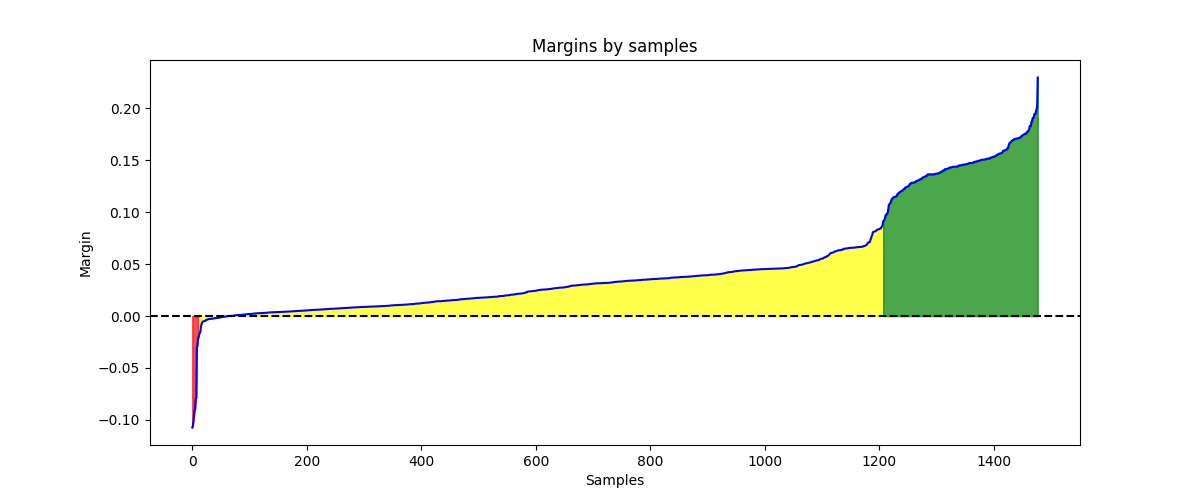
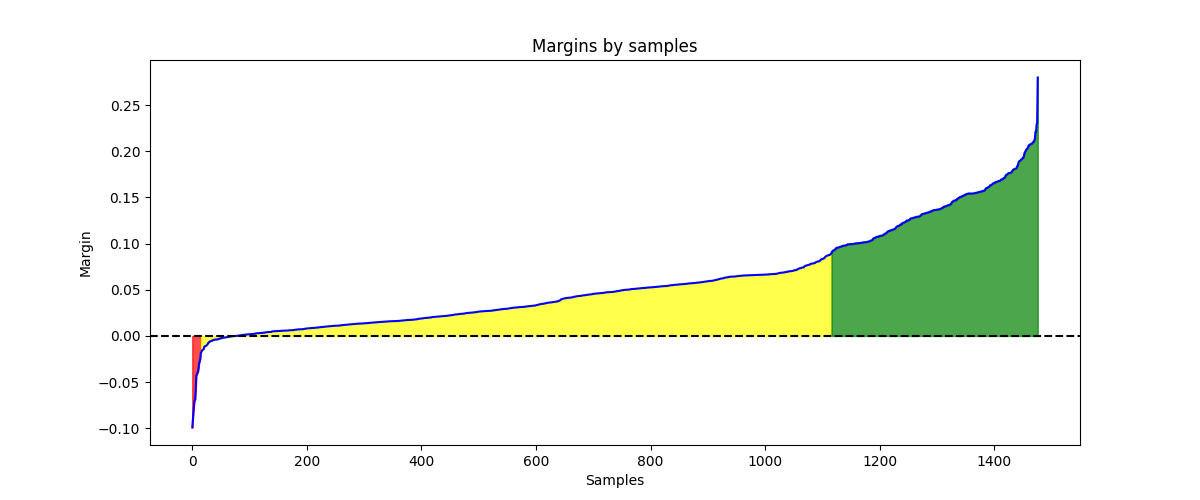
Add new losses, add Q to README.md, train sklearn models with SGD

diff --git a/students/ivanov-ms/lab1/source/train/train.py b/students/ivanov-ms/lab1/source/train/train.py
@@ -2,8 +2,7 @@ import time
 import warnings
 import numpy as np
 
-from sklearn.linear_model import LogisticRegression
-from sklearn.svm import SVC
+from sklearn.linear_model import SGDClassifier
 
 from model import LinearClassifier
 from metrics import accuracy_score
@@ -24,7 +23,7 @@ def train_and_eval_model(
 
 
 def multi_start(
-    X_train: np.ndarray, y_train: np.ndarray, X_test: np.ndarray, y_test: np.ndarray,
+    X_train: np.ndarray, y_train: np.ndarray, X_test: np.ndarray, y_test: np.ndarray, loss: str = "log_loss",
     num_starts: int = 10, batch_method: str = "margin", epochs=100, batch_size=32, log_prefix: str = ""
 ):
     best_model = None
@@ -35,6 +34,7 @@ def multi_start(
         model = LinearClassifier(
             weights_init_method="random",
             batch_method=batch_method,
+            loss=loss,
             learning_rate=LEARNING_RATE,
             momentum_betta=MOMENTUM_BETTA,
             l2_coef=L2_COEF,
@@ -55,24 +55,29 @@ def multi_start(
 
 def train_pipeline(
     X_train: np.ndarray, y_train: np.ndarray, X_test: np.ndarray, y_test: np.ndarray,
-    num_starts: int = 10, epochs: int = 100, batch_size: int = 32
+    loss: str = "log_loss", num_starts: int = 10, epochs: int = 100, batch_size: int = 32
 ):
     # Multi-starts with random weights init
 
-    print("Start Train pipeline")
+    print("Start Train pipeline with params:")
+    print(f"-- Loss name: {loss}")
+    print(f"-- Multi-start number of starts: {num_starts}")
+    print(f"-- Train epochs: {epochs}")
+    print(f"-- Batch size: {batch_size}")
+
     start_time = time.time()
 
     print("-- Start multi-start with margin-based batch method")
     best_model, best_model_acc, best_hist = multi_start(
         X_train, y_train, X_test, y_test,
-        num_starts=num_starts, batch_method="margin",
+        loss=loss, num_starts=num_starts, batch_method="margin",
         epochs=epochs, batch_size=batch_size, log_prefix="---- "
     )
     print(f"-- Complete multi-start with margin-based batch method with best accuracy {best_model_acc:.4f}")
     print("-- Start multi-start with random batch method")
     model, accuracy, hist = multi_start(
         X_train, y_train, X_test, y_test,
-        num_starts=num_starts, batch_method="random",
+        loss=loss, num_starts=num_starts, batch_method="random",
         epochs=epochs, batch_size=batch_size, log_prefix="---- "
     )
     print(f"-- Complete multi-start with random batch method with best accuracy {accuracy:.4f}")
@@ -87,6 +92,7 @@ def train_pipeline(
     model = LinearClassifier(
         weights_init_method="correlation",
         batch_method="margin",
+        loss=loss,
         learning_rate=LEARNING_RATE,
         momentum_betta=MOMENTUM_BETTA,
         l2_coef=L2_COEF,
@@ -107,6 +113,7 @@ def train_pipeline(
     model = LinearClassifier(
         weights_init_method="correlation",
         batch_method="random",
+        loss=loss,
         learning_rate=LEARNING_RATE,
         momentum_betta=MOMENTUM_BETTA,
         l2_coef=L2_COEF,
@@ -127,7 +134,10 @@ def train_pipeline(
     return best_model, best_hist
 
 
-def train_sklearn_models(X_train: np.ndarray, y_train: np.ndarray, X_test: np.ndarray, y_test: np.ndarray):
+def train_sklearn_models(
+    X_train: np.ndarray, y_train: np.ndarray,
+    X_test: np.ndarray, y_test: np.ndarray, epochs: int = 100
+):
     print("Train SKLearn models")
     start_time = time.time()
 
@@ -135,14 +145,20 @@ def train_sklearn_models(X_train: np.ndarray, y_train: np.ndarray, X_test: np.nd
     with warnings.catch_warnings():
         warnings.simplefilter("ignore")
 
-        print("-- Train LogisticRegression")
-        logistic_clf = LogisticRegression()
+        print("-- Train LogisticRegression with SGD")
+        logistic_clf = SGDClassifier(
+            loss="log_loss", penalty="l2", max_iter=epochs,
+            learning_rate='constant', eta0=LEARNING_RATE
+        )
         logistic_clf.fit(X_train, y_train)
         logistic_score = logistic_clf.score(X_test, y_test)
         print(f"-- LogisticRegression accuracy: {logistic_score:.4f}")
 
-        print("-- Train SVC (Support Vector Machine Classifier)")
-        svc_clf = SVC()
+        print("-- Train SVC (Support Vector Machine Classifier) with SGD")
+        svc_clf = SGDClassifier(
+            loss="hinge", penalty="l2", max_iter=epochs,
+            learning_rate='constant', eta0=LEARNING_RATE
+        )
         svc_clf.fit(X_train, y_train)
         svc_score = svc_clf.score(X_test, y_test)
         print(f"-- SVC accuracy: {svc_score:.4f}")

diff --git a/students/ivanov-ms/lab1/source/model/loss.py b/students/ivanov-ms/lab1/source/model/loss.py
@@ -2,9 +2,12 @@ from typing import Optional
 import numpy as np
 
 from .regularization import Regularization
+from .activations import ReverseSigmoid, LogActivation
 
 
-class BinaryLoss:
+class BaseLoss:
+    NAME = None
+
     def __init__(self, loss_lambda: float = 1e-3, regularization: Optional[Regularization] = None):
         self.loss_lambda = loss_lambda
         self.reg = regularization
@@ -13,10 +16,10 @@ class BinaryLoss:
         self.val_history = []
 
     def calc(self, y_true: np.ndarray, y_pred: np.ndarray):
-        return (y_pred * y_true < 0).mean()
+        raise NotImplementedError("Loss calculation is not implemented")
 
     def derivative(self, y_true: np.ndarray, y_pred: np.ndarray):
-        return np.expand_dims(np.sign(y_pred) * (y_pred * y_true < 0), axis=-1) / y_true.shape[0]
+        raise NotImplementedError("Loss derivative is not implemented")
 
     def get_loss(self, y_true: np.ndarray, y_pred: np.ndarray, weights: Optional[np.ndarray] = None):
         if self.history:
@@ -40,3 +43,52 @@ class BinaryLoss:
 
     def __call__(self, y_true: np.ndarray, y_pred: np.ndarray):
         return self.calc(y_true, y_pred)
+
+
+class BinaryLoss(BaseLoss):
+    NAME = "binary"
+
+    def calc(self, y_true: np.ndarray, y_pred: np.ndarray):
+        return (y_pred * y_true < 0).mean()
+
+    def derivative(self, y_true: np.ndarray, y_pred: np.ndarray):
+        return np.expand_dims(np.sign(y_pred) * (y_pred * y_true < 0), axis=-1) / y_true.shape[0]
+
+
+class SigmoidLoss(BaseLoss):
+    NAME = "sigmoid"
+
+    def __init__(self, *args, **kwargs):
+        super(SigmoidLoss, self).__init__(*args, **kwargs)
+
+        self.sigmoid = ReverseSigmoid()
+
+    def calc(self, y_true: np.ndarray, y_pred: np.ndarray):
+        return self.sigmoid(y_pred * y_true).mean()
+
+    def derivative(self, y_true: np.ndarray, y_pred: np.ndarray):
+        out = self.sigmoid(y_pred * y_true)
+        return np.expand_dims(y_true * self.sigmoid.derivative(out), axis=-1) / y_true.shape[0]
+
+
+class LogLoss(BaseLoss):
+    NAME = "log_loss"
+
+    def __init__(self, *args, **kwargs):
+        super(LogLoss, self).__init__(*args, **kwargs)
+
+        self.log_act = LogActivation()
+
+    def calc(self, y_true: np.ndarray, y_pred: np.ndarray):
+        return self.log_act(y_pred * y_true).mean()
+
+    def derivative(self, y_true: np.ndarray, y_pred: np.ndarray):
+        return np.expand_dims(y_true * self.log_act.derivative(y_pred * y_true), axis=-1) / y_true.shape[0]
+
+
+# Find all classes based on BaseLoss class
+LOSSES = {
+    v.NAME: v
+    for v in globals().values()
+    if isinstance(v, type) and BaseLoss in v.__bases__
+}

diff --git a/students/ivanov-ms/lab1/source/main.py b/students/ivanov-ms/lab1/source/main.py
@@ -12,6 +12,10 @@ def main():
         help='Mode to run: "full" (data and train), "data" (only data pipeline), or "train" (only training pipeline)'
     )
     parser.add_argument('--with-plotting', action='store_true', help='Enable plotting')
+    parser.add_argument(
+        '--loss', type=str, default="log_loss", choices=['binary', 'log_loss', 'sigmoid'],
+        help='Loss function to use: "binary", "log_loss", or "sigmoid"'
+    )
     parser.add_argument('--num-starts', type=int, default=10, help='Number of starts for multi-start training')
     parser.add_argument('--epochs', type=int, default=100, help='Number of epochs for training')
     parser.add_argument('--batch-size', type=int, default=32, help='Batch size for training')
@@ -45,14 +49,19 @@ def main():
 
     best_model, best_hist = train_pipeline(
         X_train, y_train, X_test, y_test,
+        loss=args.loss,
         num_starts=args.num_starts,
         epochs=args.epochs,
         batch_size=args.batch_size
     )
 
+    print("\nBest custom model evaluation of functionality (Q):")
+    print(f"-- Train Q: {best_hist[0][-1]:.4f}")
+    print(f"-- Test Q: {best_hist[1][-1]:.4f}")
+
     print("\nEvaluating best custom model:")
     conf_matrix = evaluate_model(best_model, X_test, y_test, log_prefix="-- ")
-    print("Confusion Matrix:")
+    print("\nConfusion Matrix:")
     print(conf_matrix)
 
     if args.with_plotting:
@@ -62,10 +71,10 @@ def main():
         plot_margins(best_model, X_test, y_test)
 
     print("\nTraining and evaluating sklearn models for comparison...")
-    sklearn_model = train_sklearn_models(X_train, y_train, X_test, y_test)
+    sklearn_model = train_sklearn_models(X_train, y_train, X_test, y_test, epochs=args.epochs)
     print("\nEvaluating best sklearn model:")
     conf_matrix_sklearn = evaluate_model(sklearn_model, X_test, y_test, log_prefix="-- ")
-    print("Confusion Matrix (sklearn):")
+    print("\nConfusion Matrix (sklearn):")
     print(conf_matrix_sklearn)
 
 

diff --git a/students/ivanov-ms/lab1/source/model/model.py b/students/ivanov-ms/lab1/source/model/model.py
@@ -1,8 +1,8 @@
-from typing import Optional, List
+from typing import Optional, Union, List
 import numpy as np
 
 from .batch_generator import BatchGenerator
-from .loss import BinaryLoss
+from .loss import LOSSES, BaseLoss
 from .regularization import L2Regularization
 from .optimizer import MomentumOptimizer
 
@@ -14,7 +14,7 @@ class LinearClassifier:
     def __init__(
             self, weights_init_method: str = "random", batch_method: str = 'margin',
             learning_rate: float = 1e-4, momentum_betta: float = 0.5,
-            l2_coef: Optional[float] = 1e-3, loss_lambda: float = 1e-3
+            l2_coef: Optional[float] = 1e-3, loss: Union[str, BaseLoss] = "log_loss", loss_lambda: float = 1e-3
     ):
         self.weights_init_method = LinearClassifier._validate_field(
             weights_init_method, self.WHEIGHT_INIT_METHODS, deafult="random"
@@ -25,7 +25,13 @@ class LinearClassifier:
 
         self.optimizer = MomentumOptimizer(learning_rate, momentum_betta)
         self.l2_reg = L2Regularization(l2_coef) if l2_coef is not None else None
-        self.loss = BinaryLoss(loss_lambda, self.l2_reg)
+
+        if isinstance(loss, str) and LOSSES.get(loss) is not None:
+            self.loss = LOSSES[loss](loss_lambda, self.l2_reg)
+        elif isinstance(loss, BaseLoss):
+            self.loss = loss
+        else:
+            raise ValueError("Loss should be string with loss name or loss object")
 
         self.weights = None
         self.bias = None

diff --git a/students/ivanov-ms/lab1/source/model/activations.py b/students/ivanov-ms/lab1/source/model/activations.py
@@ -1,0 +1,33 @@
+from typing import Optional, Union
+import numpy as np
+
+
+class ReverseSigmoid:
+    def __init__(self, clip_limit: Optional[Union[int, float]] = 250):
+        self.clip_limit = -clip_limit if clip_limit is not None and clip_limit < 0 else clip_limit
+
+    def call(self, x) -> np.ndarray:
+        x = np.clip(x, -self.clip_limit, self.clip_limit) if self.clip_limit else x
+        return 2 / (1 + np.exp(x))
+
+    def derivative(self, out) -> np.ndarray:
+        return out * (out/2 - 1)
+
+    def __call__(self, x):
+        return self.call(x)
+
+
+class LogActivation:
+    def __init__(self, clip_limit: Optional[Union[int, float]] = 250):
+        self.clip_limit = -clip_limit if clip_limit is not None and clip_limit < 0 else clip_limit
+
+    def call(self, x) -> np.ndarray:
+        x = np.clip(x, -self.clip_limit, self.clip_limit) if self.clip_limit else x
+        return np.log2(1 + np.exp(-x))
+
+    def derivative(self, x) -> np.ndarray:
+        x = np.clip(x, -self.clip_limit, self.clip_limit) if self.clip_limit else x
+        return (1/(1 + np.exp(-x)) - 1) / np.log(2)
+
+    def __call__(self, x):
+        return self.call(x)

diff --git a/students/ivanov-ms/lab1/source/model/regularization.py b/students/ivanov-ms/lab1/source/model/regularization.py
@@ -6,10 +6,10 @@ class Regularization:
         self.reg_coef = np.float64(reg_coef)
 
     def calc(self, weights: np.ndarray):
-        raise NotImplementedError("Regularization calculation not impelemted")
+        raise NotImplementedError("Regularization calculation not implemented")
 
     def derivative(self, weights: np.ndarray):
-        raise NotImplementedError("Regularization derivative not impelemted")
+        raise NotImplementedError("Regularization derivative not implemented")
 
     def __call__(self, weights: np.ndarray):
         return self.calc(weights)

diff --git a/students/ivanov-ms/lab1/README.md b/students/ivanov-ms/lab1/README.md
@@ -122,6 +122,10 @@
    
     Метрики полученной модели на тестовой выборке:
     ```text
+   Best custom model evaluation of functionality (Q):
+   -- Train Q: 0.0293
+   -- Test Q: 0.0348
+
     Evaluating best custom model:
     -- Accuracy: 0.9653
     -- Precision: 0.9528
@@ -147,23 +151,28 @@
    
 8. Сравнение с эталонными моделями из sklearn.
    
-   Здесь обучались 2 модели - LogisticRegression и SVC (Support Vector Machine Classifier)
+   Здесь обучались 2 модели Стохастического Градинтного спуска SGDClassifier - с `loss="log_loss"` (по сути LogisticRegression) и с `loss="hinge"` (по сути Support Vector Machine Classifier).
    
-   После обучения и анализа accuracy, лучшей из них оказалась модель логистической регрессии. Она показала следующие метрики:
+   Каждой из моделей были переданы параметры по аналогии с тем, как были обучены собственные модели:
+   * `penalty="l2"` для L2 регуляризации
+   * `max_iter=epochs` количество эпох для обучения (такое же как у собственных моделей)
+   * `learning_rate='constant', eta0=LEARNING_RATE` фиксированный Learning Rate (такой же как у собственных моделей)
+   
+   После обучения и анализа accuracy, лучшей из них оказалась модель с `loss="hinge"` (SVC). Она показала следующие метрики:
    ```text
    Evaluating best sklearn model:
-   -- Accuracy: 0.9763
-   -- Precision: 0.9907
-   -- Recall: 0.9639
-   -- F1-Score: 0.9771
+   -- Accuracy: 0.9100
+   -- Precision: 0.9508
+   -- Recall: 0.8735
+   -- F1-Score: 0.9105
  
    Confusion Matrix (sklearn):
                       Actual
                     Positive Negative
-   Predict Positive      320        3
-           Negative       12      298
+   Predict Positive      290       15
+           Negative       42      286
    ```
    
-   Таким образом собственная реализация оказалась лишь чуть хуже, реализации логистической регрессии из sklearn, уступив лишь на 0.011 в accuracy. 
+   Таким образом собственная реализация оказалась даже немного лучше, чем реализации линейных классификаторов с SGD из sklearn, показав accuracy на `0.0553` выше. 
 
 Полный лог предобработки данных, обучения моделей и анализа результатов доступен [тут](logs/full_pipeline_log.txt)
